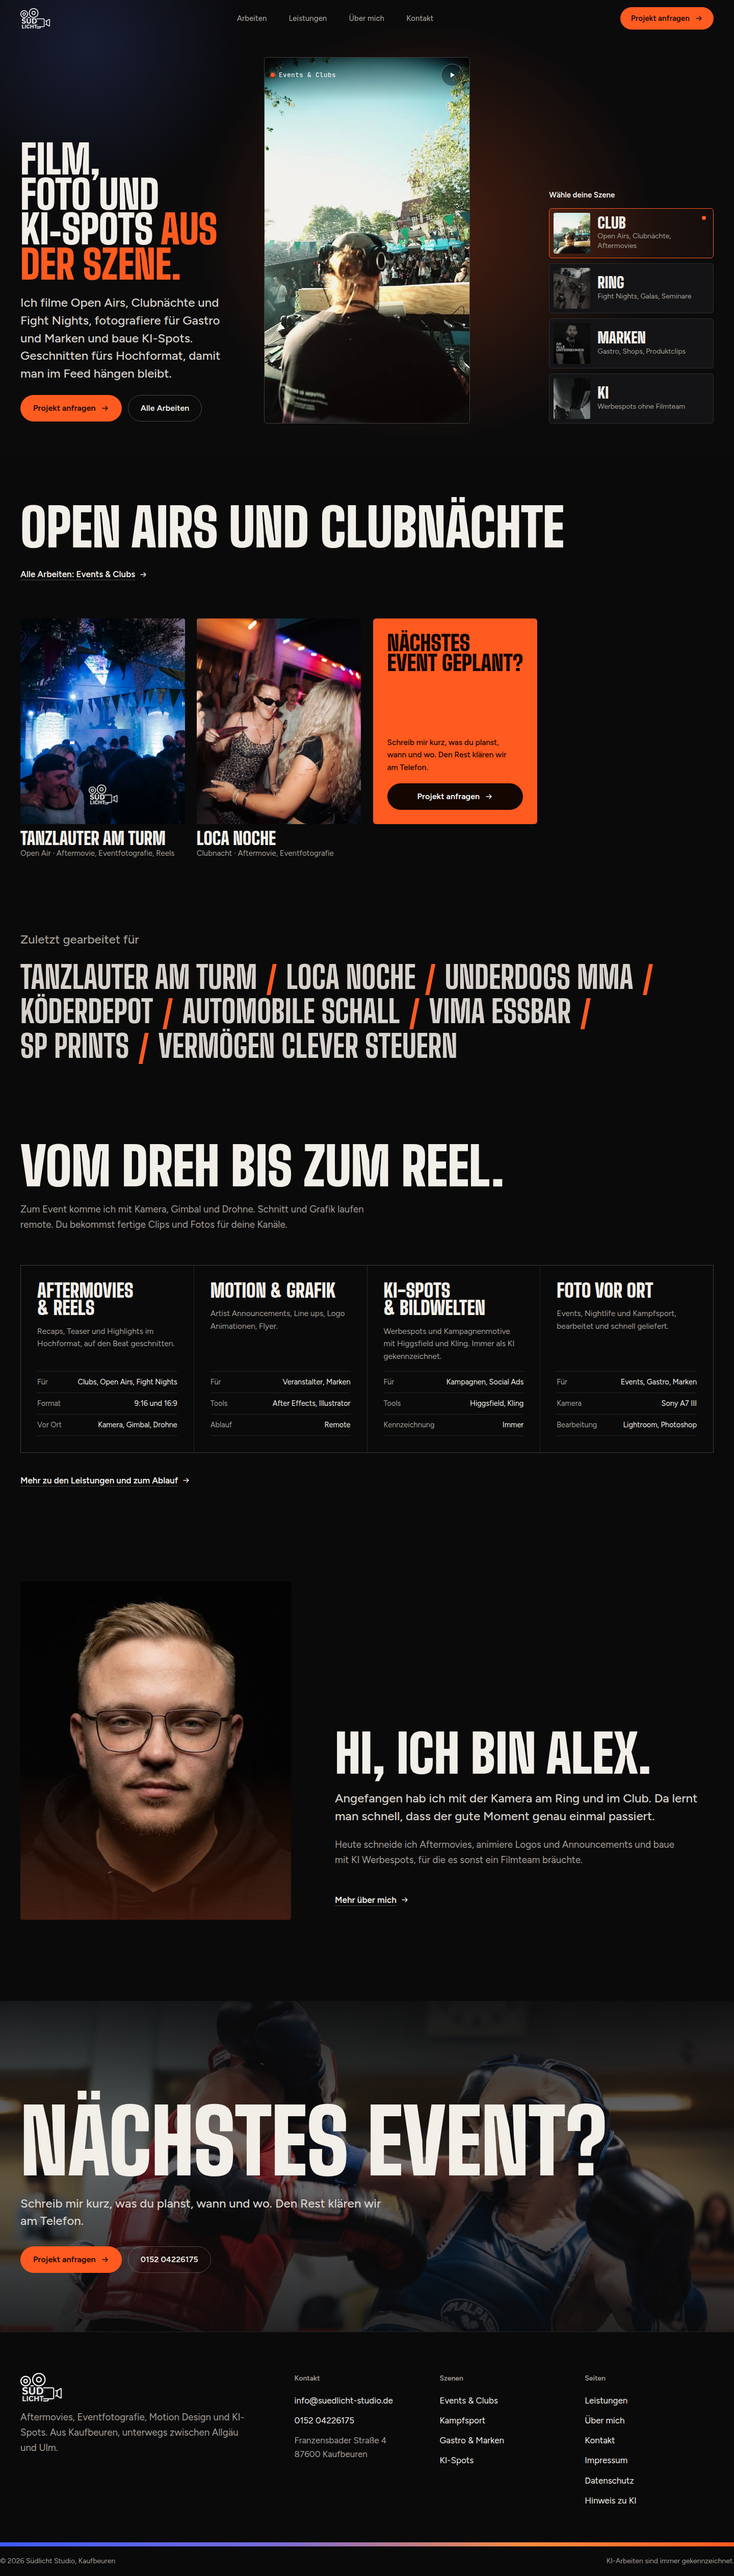
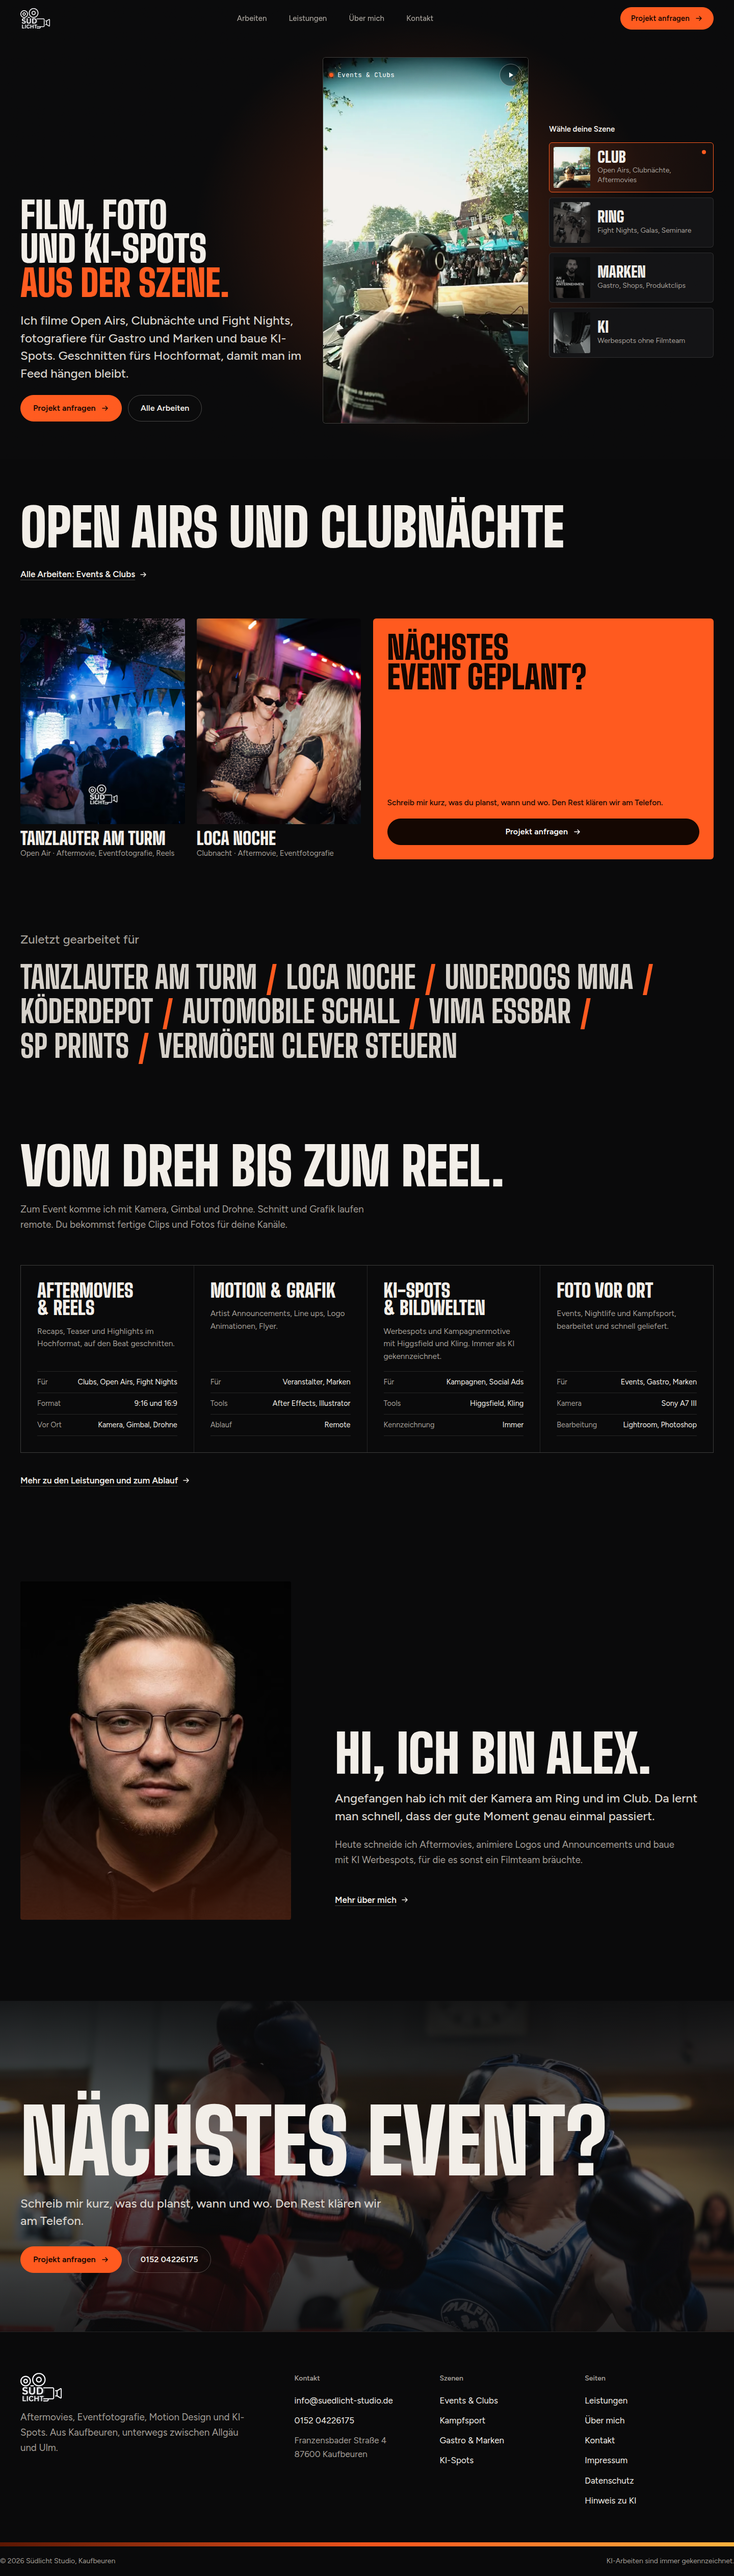
Review-Korrekturen: Club-Szene ohne Lücke, Blau nur für KI, Überschrift sauber umbrochen, Etikett über nächstem Projekt entfernt
Claude-Session: https://claude.ai/code/session_01PhsR7b2PCvZ7sJBJe8BoZK

Changed region(s): [[0.0312, 0.0, 0.9375, 0.1866], [0.5, 0.2177, 1.0, 0.3421]]

diff --git a/src/styles/global.css b/src/styles/global.css
@@ -24,9 +24,9 @@
   --line-strong:rgba(242,238,232,.26);
   --orange:#FF5A1F;
   --amber:#FFB23E;
-  --blue:#7D93FF;
+  --blue:#5B78FF;
   --on-orange:#140702;
-  --grad:linear-gradient(90deg,#3D5AFE 0%,#7A6BD8 38%,#FF8A3D 72%,#FF5A1F 100%);
+  --grad:linear-gradient(90deg,#5a1603 0%,#FF5A1F 55%,#FFB23E 100%);
 
   --display:'Big Shoulders Display','Arial Narrow',sans-serif;
   --body:'Figtree','Segoe UI',Roboto,Helvetica,Arial,sans-serif;
@@ -138,13 +138,18 @@ p{text-wrap:pretty}
 
 /* ── Startseite: Bildmischer ── */
 .mixer{position:relative;padding-top:calc(var(--nav-h) + clamp(20px,3vw,40px));padding-bottom:clamp(40px,5vw,72px);isolation:isolate}
-.mixer::before{content:"";position:absolute;inset:0 0 -20% 0;z-index:-1;pointer-events:none;
-  background:radial-gradient(45% 55% at 58% 42%,rgba(255,90,31,.26),transparent 70%),radial-gradient(30% 40% at 12% 8%,rgba(91,120,255,.16),transparent 70%)}
+.mixer::before,.mixer::after{content:"";position:absolute;inset:0 0 -20% 0;z-index:-1;pointer-events:none;transition:opacity 900ms var(--ease-in-out)}
+.mixer::before{background:radial-gradient(45% 55% at 58% 42%,rgba(255,90,31,.26),transparent 70%)}
+/* Nur beim KI-Kanal wird das Licht im Raum laserblau */
+.mixer::after{background:radial-gradient(45% 55% at 58% 42%,rgba(91,120,255,.30),transparent 70%);opacity:0}
+.mixer[data-scene="ki"]::before{opacity:0}
+.mixer[data-scene="ki"]::after{opacity:1}
 .mixer-grid{display:grid;grid-template-columns:repeat(12,minmax(0,1fr));gap:var(--gap);align-items:stretch;min-height:calc(100svh - var(--nav-h) - 110px)}
-.mixer-copy{grid-column:1 / span 4;display:flex;flex-direction:column;justify-content:flex-end;gap:24px;padding-bottom:4px}
-.mixer-h1{font-size:clamp(48px,5.4vw,92px)}
+.mixer-copy{grid-column:1 / span 5;display:flex;flex-direction:column;justify-content:flex-end;gap:24px;padding-bottom:4px}
+.mixer-h1{font-size:clamp(44px,5vw,88px);line-height:.92}
+.mixer-h1 .l{display:block;white-space:nowrap}
 .mixer-h1 em{font-style:normal;color:var(--orange)}
-.monitor{grid-column:5 / span 4;position:relative;align-self:stretch;min-height:520px;max-height:calc(100svh - var(--nav-h) - 110px);aspect-ratio:9/16;justify-self:center;width:auto;height:100%;overflow:hidden;border-radius:6px;background:#000;border:1px solid var(--line-strong)}
+.monitor{grid-column:6 / span 4;position:relative;align-self:stretch;min-height:520px;max-height:calc(100svh - var(--nav-h) - 110px);aspect-ratio:9/16;justify-self:center;width:auto;height:100%;overflow:hidden;border-radius:6px;background:#000;border:1px solid var(--line-strong)}
 .monitor video,.monitor .monitor-poster{position:absolute;inset:0;width:100%;height:100%;object-fit:cover}
 .monitor video{opacity:0;visibility:hidden}
 .monitor video.is-on{opacity:1;visibility:visible;z-index:1}
@@ -158,7 +163,7 @@ p{text-wrap:pretty}
 .monitor-cap{position:absolute;left:0;right:0;bottom:0;z-index:3;padding:40px 14px 14px;background:linear-gradient(transparent,rgba(0,0,0,.7));color:#fff;font-size:14px;display:flex;justify-content:space-between;gap:12px}
 .monitor-cap a{font-weight:600;text-decoration:underline;text-underline-offset:4px;text-decoration-color:rgba(255,255,255,.4)}
 
-.channels{grid-column:10 / span 3;display:flex;flex-direction:column;gap:10px;justify-content:flex-end}
+.channels{grid-column:10 / span 3;display:flex;flex-direction:column;gap:10px;justify-content:center}
 .channels-h{font-size:15px;font-weight:600;margin:0 0 4px;color:var(--ink)}
 .channel{position:relative;display:grid;grid-template-columns:72px 1fr;gap:14px;align-items:center;padding:8px 14px 8px 8px;min-height:96px;border:1px solid var(--line);border-radius:6px;background:var(--bg-2);text-align:left;cursor:pointer;transition:border-color var(--t-med) var(--ease-out),background var(--t-med) var(--ease-out);touch-action:manipulation}
 .channel:hover{border-color:var(--line-strong);background:var(--bg-3)}
@@ -171,9 +176,6 @@ p{text-wrap:pretty}
 .channel[aria-pressed="true"]::after{content:"";position:absolute;right:14px;top:14px;width:8px;height:8px;border-radius:50%;background:var(--orange)}
 
 @media (max-width:1180px){
-  .mixer-copy{grid-column:1 / span 5}
-  .monitor{grid-column:6 / span 4}
-  .channels{grid-column:10 / span 3}
   .channel{grid-template-columns:1fr;padding:8px}
   .channel-thumb{display:none}
 }
@@ -200,12 +202,14 @@ p{text-wrap:pretty}
 .pcard:hover .pcard-t{color:var(--orange)}
 .pcard-m{margin:0;font-size:15px;color:var(--muted)}
 .cta-card{display:flex;flex-direction:column;justify-content:space-between;gap:28px;padding:clamp(20px,2vw,28px);border-radius:6px;background:var(--orange);color:var(--on-orange);aspect-ratio:4/5}
+.cta-card.span-2{grid-column:span 2;aspect-ratio:auto}
+.cta-card.span-2 h3{font-size:clamp(44px,4.4vw,72px)}
 .cta-card h3{font-family:var(--display);font-weight:900;text-transform:uppercase;font-size:clamp(34px,3vw,48px);line-height:.92;margin:0}
 .cta-card p{margin:0;font-size:15.5px;font-weight:500}
 .cta-card .btn{background:var(--on-orange);border-color:var(--on-orange);color:#fff;align-self:flex-start}
 .cta-card .btn::before{background:#fff}
 .cta-card .btn:hover{color:var(--on-orange)}
-@media (max-width:1100px){.pgrid{grid-template-columns:repeat(2,minmax(0,1fr))}}
+@media (max-width:1100px){.pgrid{grid-template-columns:repeat(2,minmax(0,1fr))}.cta-card.span-2{grid-column:auto;aspect-ratio:4/5}}
 @media (max-width:560px){.pgrid{grid-template-columns:1fr 1fr;gap:10px}.pcard-t{font-size:24px}.pcard-m{font-size:13.5px}.cta-card{grid-column:1/-1;aspect-ratio:auto}}
 
 /* ── Kundenliste ── */
@@ -285,7 +289,7 @@ p{text-wrap:pretty}
 
 /* ── Seiten-Kopf (Unterseiten) ── */
 .page-head{padding-top:calc(var(--nav-h) + clamp(48px,8vw,112px));padding-bottom:clamp(32px,5vw,64px);position:relative;isolation:isolate}
-.page-head::before{content:"";position:absolute;inset:0 0 -30% 0;z-index:-1;background:radial-gradient(45% 60% at 90% 0%,rgba(255,90,31,.22),transparent 70%),radial-gradient(35% 50% at 0% 20%,rgba(91,120,255,.14),transparent 70%);pointer-events:none}
+.page-head::before{content:"";position:absolute;inset:0 0 -30% 0;z-index:-1;background:radial-gradient(45% 60% at 90% 0%,rgba(255,90,31,.22),transparent 70%);pointer-events:none}
 .page-head .display{font-size:clamp(64px,12vw,200px)}
 .page-head .lead,.page-head .body-l{margin-top:clamp(20px,2.6vw,36px)}
 .back{display:inline-flex;align-items:center;gap:8px;min-height:44px;margin-bottom:20px;color:var(--muted);font-weight:500;transition:color var(--t-fast)}
@@ -345,9 +349,9 @@ p{text-wrap:pretty}
 .p-cta .btn:hover{color:var(--on-orange)}
 @media (max-width:760px){.p-cta{grid-template-columns:1fr;padding:28px 22px}}
 .next{display:block;position:relative;padding-block:clamp(48px,8vw,112px);border-top:1px solid var(--line);overflow:hidden;isolation:isolate}
-.next .display{font-size:clamp(52px,10vw,170px);transition:transform 900ms var(--ease-out)}
+.next .display{display:flex;align-items:center;gap:.25em;font-size:clamp(52px,10vw,170px);transition:transform 900ms var(--ease-out)}
+.next .display .arr{width:.5em;height:.5em;stroke-width:1.2}
 .next:hover .display{transform:translateX(2%)}
-.next-k{display:block;color:var(--muted);font-weight:500;margin-bottom:12px}
 .next .bgimg{position:absolute;inset:0;z-index:-1;opacity:0;transition:opacity 700ms var(--ease-out)}
 .next .bgimg img{width:100%;height:100%;object-fit:cover;filter:brightness(.35) saturate(.8)}
 .next:hover .bgimg{opacity:1}

diff --git a/src/scripts/motion.ts b/src/scripts/motion.ts
@@ -121,6 +121,7 @@ function mixer() {
     channels.forEach((c) => c.setAttribute('aria-pressed', String(c.dataset.channel === scene)));
     if (tally) tally.textContent = channels.find((c) => c.dataset.channel === scene)?.dataset.label ?? '';
     setSceneLinks(scene);
+    document.querySelector<HTMLElement>('[data-mixer]')?.setAttribute('data-scene', scene);
 
     // Monitor: Wischblende von links, wie am Bildmischer
     const prev = current;
